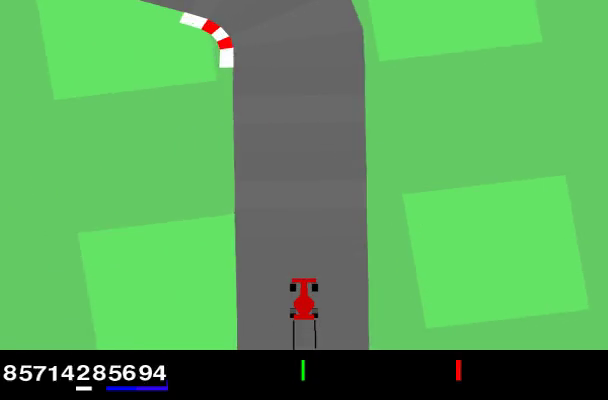
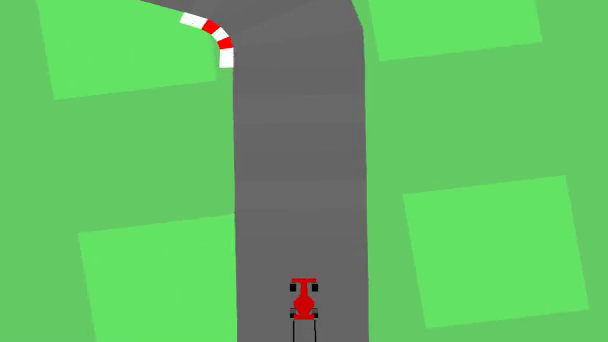
Finalize demo links and poster polish

diff --git a/docs/index.html b/docs/index.html
@@ -238,14 +238,14 @@
             Your browser does not support HTML5 video.
           </video>
           <p class="metric">Validated eval: 938.51 +/- 4.88 @ 400,000</p>
-          <p class="caption">Partial 400K best-checkpoint preview. This is not a completed 500K SAC run.</p>
+          <p class="caption">Partial 400K best-checkpoint preview, not a full-length SAC run.</p>
         </article>
       </div>
       <nav class="links" aria-label="Project links">
-        <a class="primary" href="https://github.com/UltraLamb/CarRacingV3-PPO-RayFeatures">GitHub Repository</a>
-        <a href="https://github.com/UltraLamb/CarRacingV3-PPO-RayFeatures/blob/main/final/videos/README.md">Full Video Gallery</a>
-        <a href="https://github.com/UltraLamb/CarRacingV3-PPO-RayFeatures/blob/main/final/report/Image_Processing_Project_V2_IEEE_Report.pdf">Report PDF</a>
-        <a href="https://github.com/UltraLamb/CarRacingV3-PPO-RayFeatures/blob/main/final/slides/Image_Processing_Project_Final_Presentation.pdf">Slides PDF</a>
+        <a class="primary" href="https://github.com/UltraLamb/Image-Processing-Project">GitHub Repository</a>
+        <a href="https://github.com/UltraLamb/Image-Processing-Project/blob/main/final/videos/README.md">Full Video Gallery</a>
+        <a href="https://github.com/UltraLamb/Image-Processing-Project/blob/main/final/report/Image_Processing_Project_V2_IEEE_Report.pdf">Report PDF</a>
+        <a href="https://github.com/UltraLamb/Image-Processing-Project/blob/main/final/slides/Image_Processing_Project_Final_Presentation.pdf">Slides PDF</a>
       </nav>
     </section>
 
@@ -266,15 +266,15 @@
       <h2 id="limits-heading">Interpretation</h2>
       <p class="note">
         PPO is the completed 500K baseline. SAC is a partial 400K fast-result
-        branch and is not claimed to beat PPO. The comparison is not
+        branch and is not presented as outperforming PPO. The comparison is not
         compute-equivalent, this project package does not include raw-pixel CNN
-        policy training, and it does not make a solved-status claim for
+        policy training, and it makes no environment-completion claim for
         CarRacing-v3.
       </p>
     </section>
 
     <footer>
-      https://ultralamb.github.io/CarRacingV3-PPO-RayFeatures/
+      https://ultralamb.github.io/Image-Processing-Project/
     </footer>
   </main>
 </body>

diff --git a/README.md b/README.md
@@ -10,7 +10,7 @@ compact road-geometry features for PPO/SAC control evaluation.
 ## Demo
 
 <p align="center">
-  <a href="https://ultralamb.github.io/CarRacingV3-PPO-RayFeatures/?v=ppo-sac-demo">
+  <a href="https://ultralamb.github.io/Image-Processing-Project/?v=ppo-sac-demo">
     <img src="final/figures/best_ppo_demo_poster.png"
          alt="Best PPO demo video preview"
          width="560">
@@ -18,9 +18,9 @@ compact road-geometry features for PPO/SAC control evaluation.
 </p>
 
 <p align="center">
-  <strong>PPO and SAC qualitative demos</strong><br>
-  Open the demo page for pauseable PPO and SAC video players with conservative result notes.<br>
-  <a href="https://ultralamb.github.io/CarRacingV3-PPO-RayFeatures/?v=ppo-sac-demo"><strong>Open PPO + SAC demo page</strong></a>
+  <strong>PPO and SAC demo videos</strong><br>
+  Open the demo page to view pauseable PPO and SAC preview clips with conservative result notes.<br>
+  <a href="https://ultralamb.github.io/Image-Processing-Project/?v=ppo-sac-demo"><strong>Open PPO + SAC demo page</strong></a>
   &middot;
   <a href="final/videos/README.md">Full video gallery</a>
 </p>
@@ -35,7 +35,7 @@ compact road-geometry features for PPO/SAC control evaluation.
 **Conservative interpretation.** PPO is a fully completed 500K baseline. SAC is
 a strong but partial fast-result branch whose validated number is the 400K
 checkpoint. The PPO/SAC comparison is not compute-equivalent, and SAC is not
-claimed to beat PPO. CarRacing-v3 is not claimed to be solved.
+presented as outperforming PPO. The project makes no environment-completion claim.
 
 ## Method at a glance
 
@@ -102,10 +102,10 @@ Key evidence paths:
 ## Limitations
 
 - The SAC fast-result branch is a partial 400K checkpoint, not a completed 500K run.
-- SAC is not claimed to beat PPO.
+- SAC is not presented as outperforming PPO.
 - PPO and SAC are not a compute-equivalent comparison.
 - This project package does not include raw-pixel CNN policy training.
-- The project does not make a solved-status claim for CarRacing-v3.
+- The project makes no environment-completion claim for CarRacing-v3.
 - HSV-style visual preprocessing can be sensitive to rendering and track appearance changes.
 
 ## Archived Research History

diff --git a/final/README.md b/final/README.md
@@ -34,7 +34,7 @@ feature pipeline; only the downstream policy optimization method changes.
 | PPO completed baseline | Completed 500K baseline | 938.87 +/- 7.86 @ 500,000 | 939.53 +/- 4.09 @ 480,000 | 501,760 |
 | SAC fast-result branch | Partial 400K best-checkpoint / fast-result branch | 938.51 +/- 4.88 @ 400,000 | 938.51 +/- 4.88 @ 400,000 | 418,697 |
 
-SAC is not presented as completing 500K, beating PPO, or providing a
+SAC is not presented as completing 500K, outperforming PPO, or providing a
 compute-equivalent comparison.
 
 ## Image Processing Pipeline
@@ -92,8 +92,8 @@ inspection guidance. This final package does not require retraining.
 ## Limitations
 
 - The SAC fast-result branch is a partial 400K checkpoint, not a completed 500K run.
-- SAC is not claimed to beat PPO.
+- SAC is not presented as outperforming PPO.
 - PPO and SAC are not compute-equivalent.
 - No raw image-input CNN policy was trained in this submission.
-- The project does not claim that CarRacing-v3 is solved.
+- The project makes no environment-completion claim for CarRacing-v3.
 - HSV-style preprocessing can be sensitive to visual rendering changes.

diff --git a/final/videos/README.md b/final/videos/README.md
@@ -7,7 +7,7 @@ outputs; they are visual demonstrations, not new evaluation runs.
 For the main presentation view, open the GitHub Pages demo:
 
 <p align="center">
-  <a href="https://ultralamb.github.io/CarRacingV3-PPO-RayFeatures/?v=ppo-sac-demo"><strong>Open PPO + SAC demo page</strong></a>
+  <a href="https://ultralamb.github.io/Image-Processing-Project/?v=ppo-sac-demo"><strong>Open PPO + SAC demo page</strong></a>
 </p>
 
 Quantitative claims should be read from [`../docs/RESULT_SUMMARY.md`](../docs/RESULT_SUMMARY.md)
@@ -57,7 +57,7 @@ download link.
 
 - PPO clips come from the completed 500K baseline.
 - SAC clips come from the validated 400K best checkpoint of a partial run; they
-  are not evidence of a completed 500K SAC run.
+  are not evidence of a full-length SAC run.
 - PPO and SAC are not a compute-equivalent comparison.
-- These clips are not a solved-status claim for CarRacing-v3.
+- These clips are not an environment-completion claim for CarRacing-v3.
 - Playback copies are presentation assets only; they do not change numerical evidence.